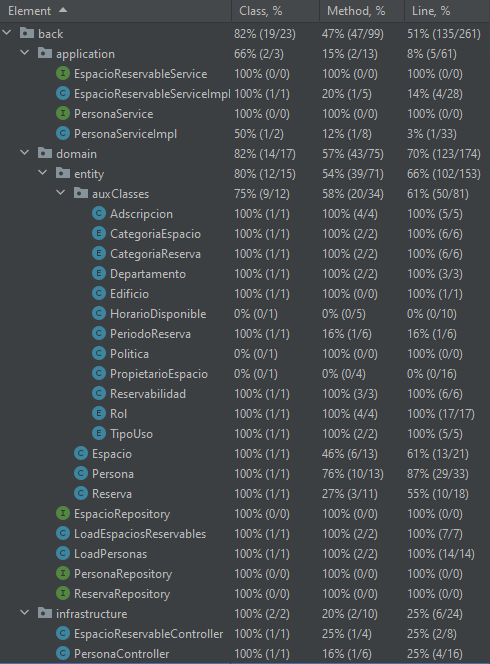
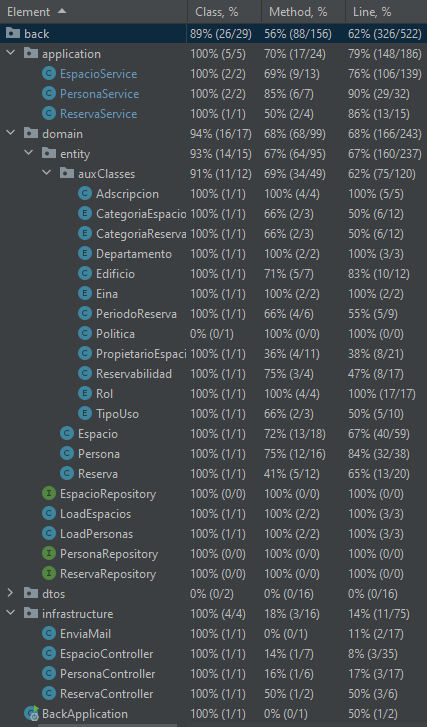
para manejar concurrencia

diff --git a/src/main/java/com/clickada/back/application/EspacioService.java b/src/main/java/com/clickada/back/application/EspacioService.java
@@ -11,6 +11,7 @@ import com.clickada.back.infrastructure.EnviaMail;
 import org.springframework.beans.factory.annotation.Autowired;
 import org.springframework.scheduling.annotation.Async;
 import org.springframework.stereotype.Service;
+import org.springframework.transaction.annotation.Transactional;
 
 import java.time.LocalDate;
 import java.time.LocalTime;
@@ -33,10 +34,12 @@ public class EspacioService {
         this.servicioCorreo = new EnviaMail();
     }
 
+    @Transactional (readOnly = true)
     public List<Espacio> todosEspacios() {
         return this.espacioRepository.findAll();
     }
 
+    @Transactional
     public boolean cambiarReservabilidadEspacio(UUID idEspacio, Reservabilidad reservabilidad, UUID idPersona) throws Exception {
         if (espacioRepository.existsById(idEspacio) && personaRepository.existsById(idPersona)) {
             Espacio espacio = espacioRepository.getById(idEspacio);
@@ -48,6 +51,7 @@ public class EspacioService {
         return false;
     }
 
+    @Transactional
     public boolean reservarEspacio(UUID idPersona, ArrayList<UUID> idEspacios, LocalDate fecha, LocalTime horaInicio,
                                    LocalTime horaFinal, TipoUso uso,int numAsistentes,String detalles) throws Exception {
         //Habrá que controlar todas las restricciones
@@ -125,19 +129,13 @@ public class EspacioService {
         }
         return true;
     }
-    public List<Reserva> obtenerReservasVivas(UUID idPersona) {
-        List<Reserva> l = new ArrayList<>();
-        if(this.personaRepository.existsById(idPersona) &&
-                this.personaRepository.getById(idPersona).rolPrincipal().equals(Rol.GERENTE)){
-            //l.addAll(this.reservaRepository.findAllAfterTime()) ;
-        }
-        return l;
-    }
 
+    @Transactional
     public void eliminarTodos() {
         this.espacioRepository.deleteAll();
         this.personaRepository.deleteAll();
     }
+    @Transactional
     public List<UUID> buscarEspacios(UUID idPersona, int numEspacios, LocalDate fecha, LocalTime horaInicio, LocalTime horaFinal, int numMaxPersonas,TipoUso tipoDeUso, String detalles) throws Exception {
         if(numEspacios>3){
             throw new Exception("Demasiados espacios para la reserva automatica");
@@ -196,6 +194,7 @@ public class EspacioService {
 
         return listaAdevolver;
     }
+
     private List<Espacio> espaciosDisponibles(List<Reserva> reservaList,List<UUID> espacioList, PeriodoReserva periodoReserva){
         List<Espacio> espacioListDisponible = new ArrayList<>();
         if(reservaList!=null) {
@@ -217,6 +216,7 @@ public class EspacioService {
         return espacioListDisponible;
     }
 
+    @Transactional
     public boolean modificarPorcentajeOcupacion(UUID idPersona, UUID idEspacio, int porcentaje){
         if(this.espacioRepository.existsById(idEspacio) && this.personaRepository.existsById(idPersona)) {
             Espacio e = this.espacioRepository.getById(idEspacio);
@@ -232,9 +232,8 @@ public class EspacioService {
                             e.getNumMaxOcupantes() * (e.getPorcentajeUsoPermitido()/100)){
                         //Se borrará reserva, hay que avisar.
                         String mail = this.personaRepository.getById(reserva.getIdPersona()).getEMail();
-
-                        Executors.newSingleThreadExecutor()
-                                .execute(() -> servicioCorreo.enviarCorreo(mail,reserva.getPeriodoReserva().toString()));
+                        Executors.newSingleThreadExecutor().execute(() ->
+                                servicioCorreo.enviarCorreo(mail,reserva.getPeriodoReserva().toString()));
 
                         reservaRepository.delete(reserva);
                     }

diff --git a/src/main/java/com/clickada/back/application/PersonaService.java b/src/main/java/com/clickada/back/application/PersonaService.java
@@ -6,6 +6,7 @@ import com.clickada.back.domain.entity.auxClasses.CategoriaReserva;
 import com.clickada.back.domain.entity.auxClasses.Rol;
 import org.springframework.beans.factory.annotation.Autowired;
 import org.springframework.stereotype.Service;
+import org.springframework.transaction.annotation.Transactional;
 
 import java.util.ArrayList;
 import java.util.List;
@@ -19,6 +20,7 @@ public class PersonaService {
     @Autowired
     public PersonaService(PersonaRepository personaRepository){ this.personaRepository = personaRepository;}
 
+    @Transactional
     public boolean cambiarRol(UUID idPersona, String rol) {
         Rol rolEnum = Rol.getRolByString(rol);
         if(personaRepository.existsById(idPersona) && rolEnum != null){
@@ -31,10 +33,12 @@ public class PersonaService {
         return false;
     }
 
+    @Transactional (readOnly = true)
     public List<Persona> todasPersonas(){
         return personaRepository.findAll();
     }
 
+    @Transactional (readOnly = true)
     public boolean aptoParaCambiar(UUID idPersona) {
         if(personaRepository.existsById(idPersona)){
             Persona persona = personaRepository.getById(idPersona);
@@ -42,12 +46,15 @@ public class PersonaService {
         }
         return false;
     }
+
+    @Transactional (readOnly = true)
     public boolean loginPersona(String email, String pass){
         Persona p = personaRepository.findByeMail(email);
         if (p!=null) return p.getContrasenya().equals(pass);
         else return false;
     }
 
+    @Transactional (readOnly = true)
     public List<CategoriaReserva> permisosDeReserva(UUID idPersona) {
         List<CategoriaReserva> l = new ArrayList<>();
         if (personaRepository.existsById(idPersona)) {

diff --git a/src/test/java/com/clickada/back/requisitos/TestRequisitos.java b/src/test/java/com/clickada/back/requisitos/TestRequisitos.java
@@ -645,11 +645,11 @@ public class TestRequisitos {
 
         ArrayList<UUID> idEspacios = new ArrayList<>(List.of(sala_comun.getIdEspacio()));
         Reserva reserva = new Reserva(new PeriodoReserva(LocalTime.of(8,0),LocalTime.of(10,0)),gerente.getIdPersona(),
-                TipoUso.DOCENCIA, idEspacios,20,"DD",LocalDate.now());
+                TipoUso.DOCENCIA, idEspacios,20,"DD",LocalDate.now().plusDays(1));
         Reserva reserva2 = new Reserva(new PeriodoReserva(LocalTime.of(18,0),LocalTime.of(19,0)),gerente.getIdPersona(),
-                TipoUso.DOCENCIA, idEspacios,20,"DD",LocalDate.now());
+                TipoUso.DOCENCIA, idEspacios,20,"DD",LocalDate.now().plusDays(1));
         Reserva reserva3 = new Reserva(new PeriodoReserva(LocalTime.of(17,0),LocalTime.of(19,0)),gerente.getIdPersona(),
-                TipoUso.DOCENCIA, idEspacios,20,"DD",LocalDate.now());
+                TipoUso.DOCENCIA, idEspacios,20,"DD",LocalDate.now().minusDays(1));
         Reserva reserva4 = new Reserva(new PeriodoReserva(LocalTime.of(8,0),LocalTime.of(10,0)),gerente.getIdPersona(),
                 TipoUso.DOCENCIA, idEspacios,20,"DD",LocalDate.of(2023,4,25));
         Reserva reserva5 = new Reserva(new PeriodoReserva(LocalTime.of(18,0),LocalTime.of(19,0)),gerente.getIdPersona(),

diff --git a/src/main/java/com/clickada/back/application/ReservaService.java b/src/main/java/com/clickada/back/application/ReservaService.java
@@ -7,6 +7,7 @@ import com.clickada.back.domain.entity.Reserva;
 import com.clickada.back.domain.entity.auxClasses.Rol;
 import org.springframework.beans.factory.annotation.Autowired;
 import org.springframework.stereotype.Service;
+import org.springframework.transaction.annotation.Transactional;
 
 import java.time.LocalDate;
 import java.time.LocalTime;
@@ -24,9 +25,12 @@ public class ReservaService {
         this.personaRepository = personaRepository;
     }
 
+
     public List<Reserva> listarTodasReservas(){
         return reservaRepository.findAll();
     }
+
+    @Transactional
     public List<Reserva> obtenerReservasVivas(UUID idPersona) throws Exception {
         if(!personaRepository.existsById(idPersona)) throw new Exception("Esa persona no existe");
 
